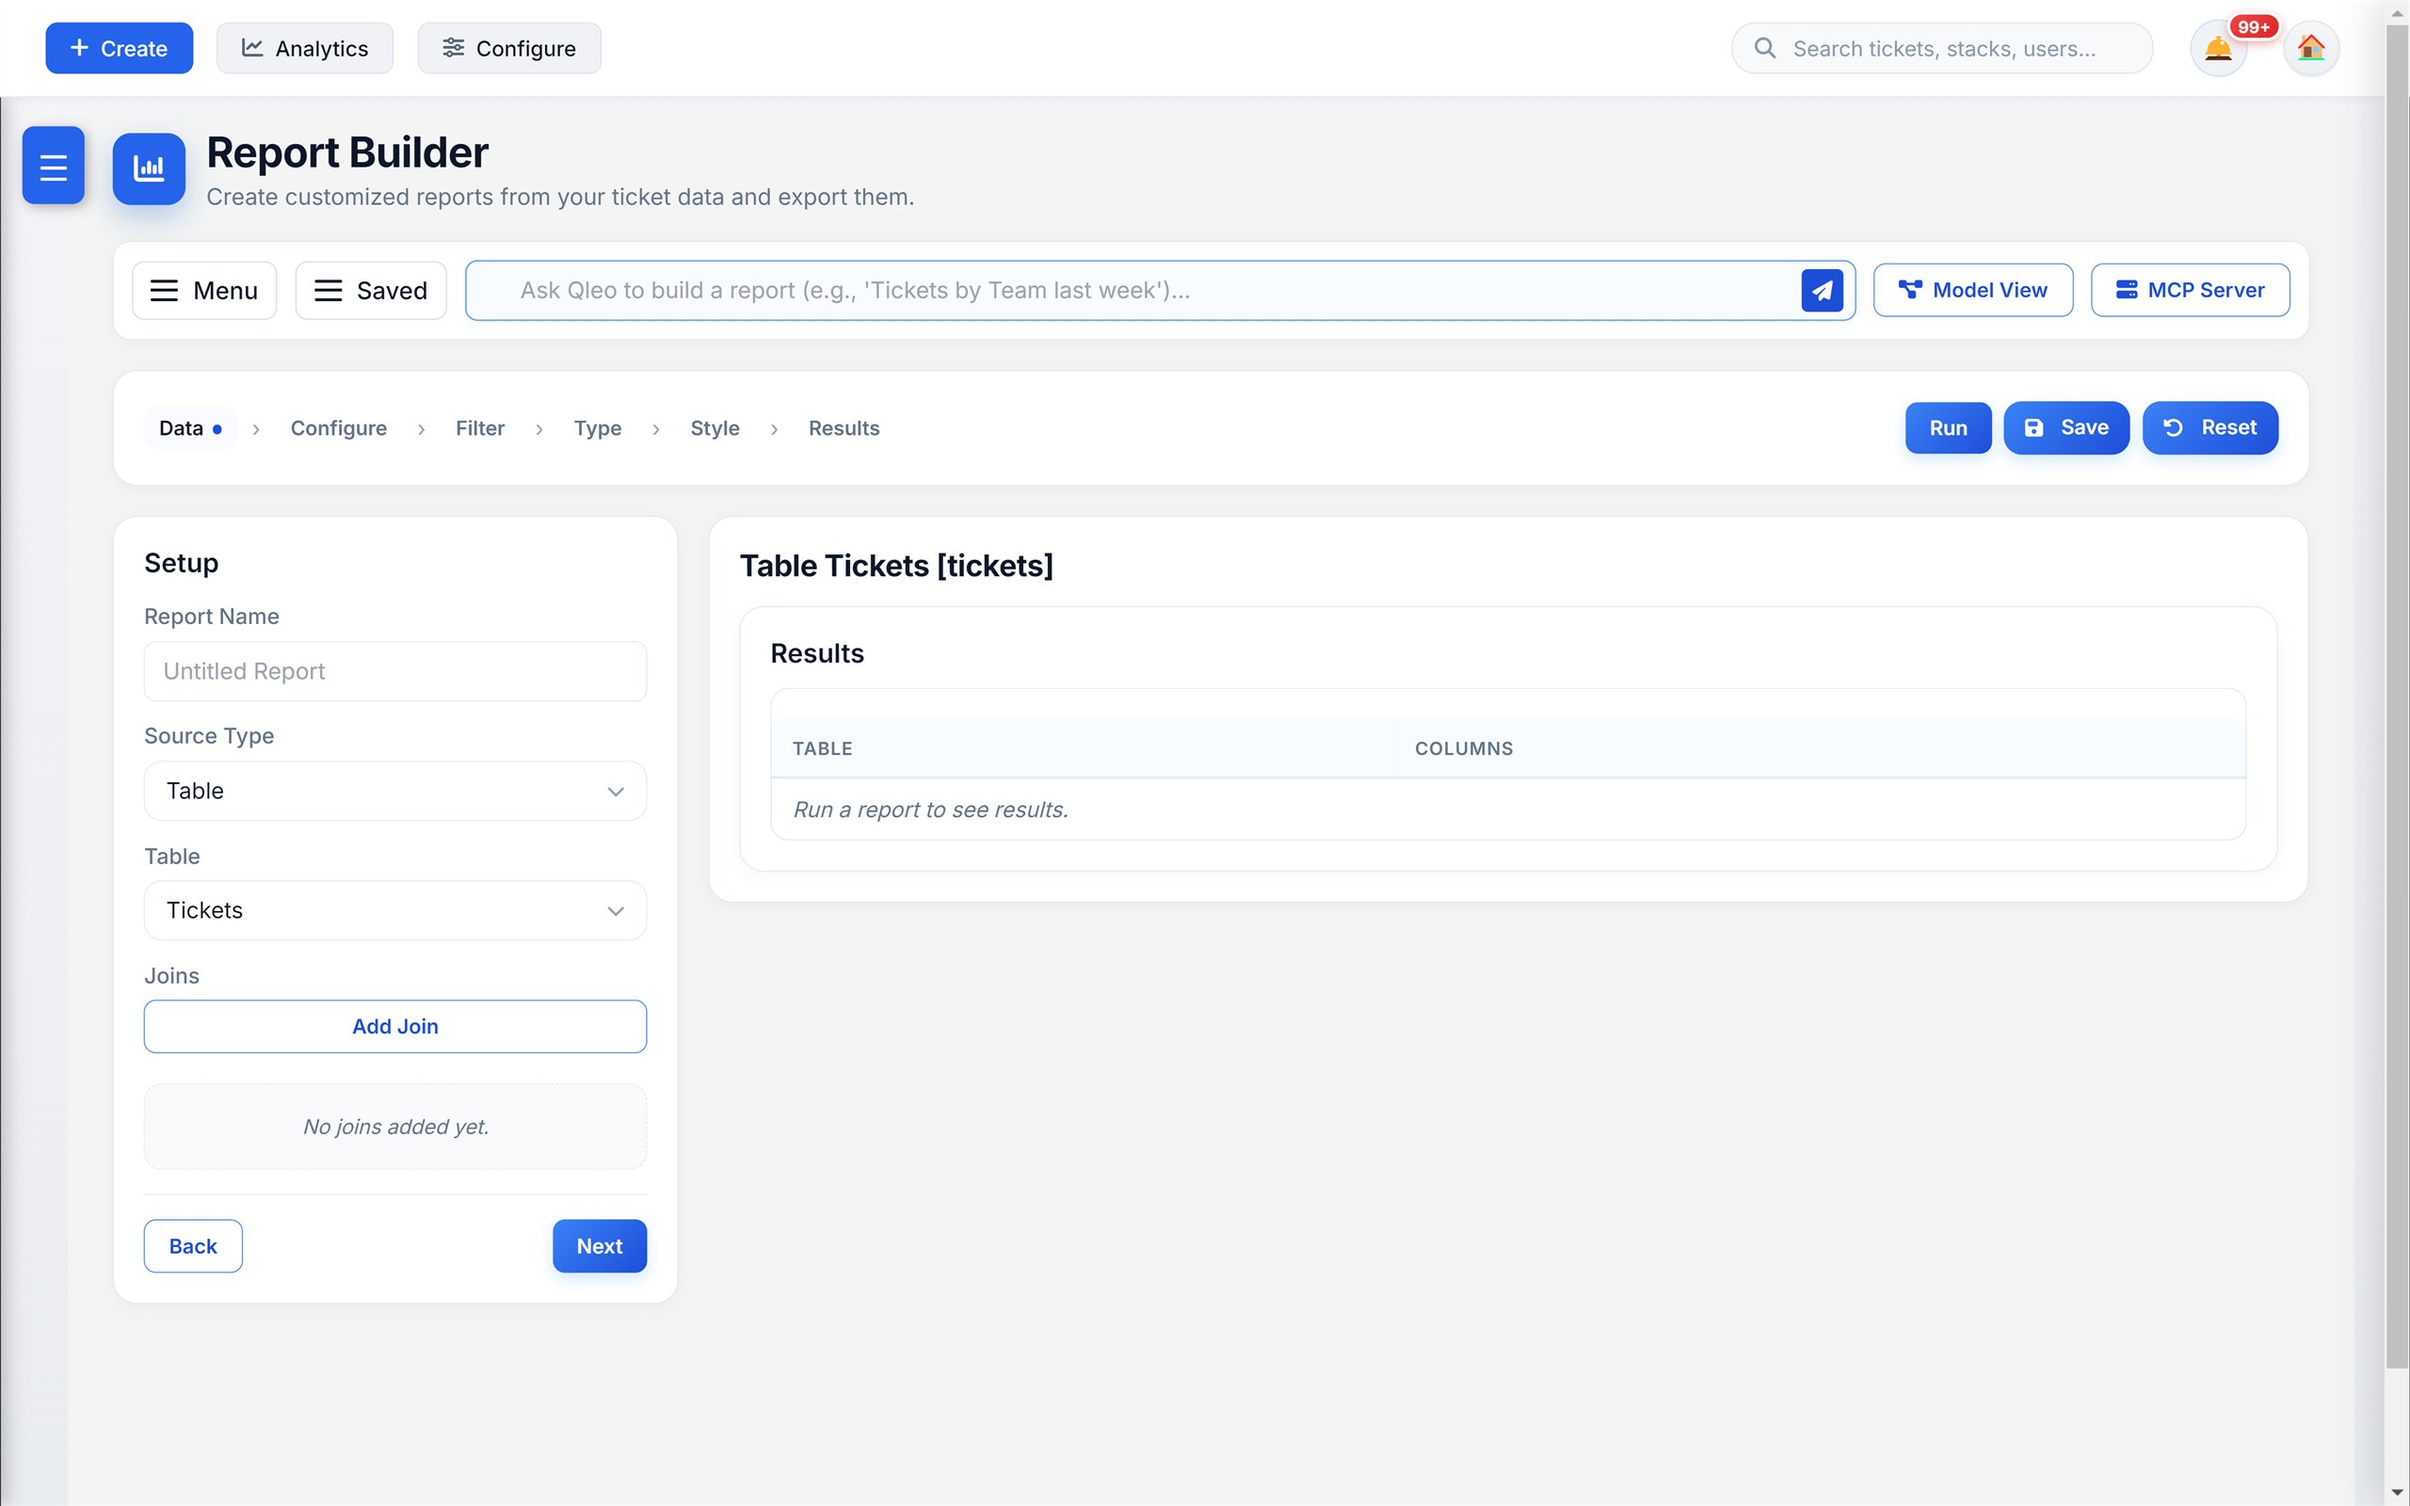
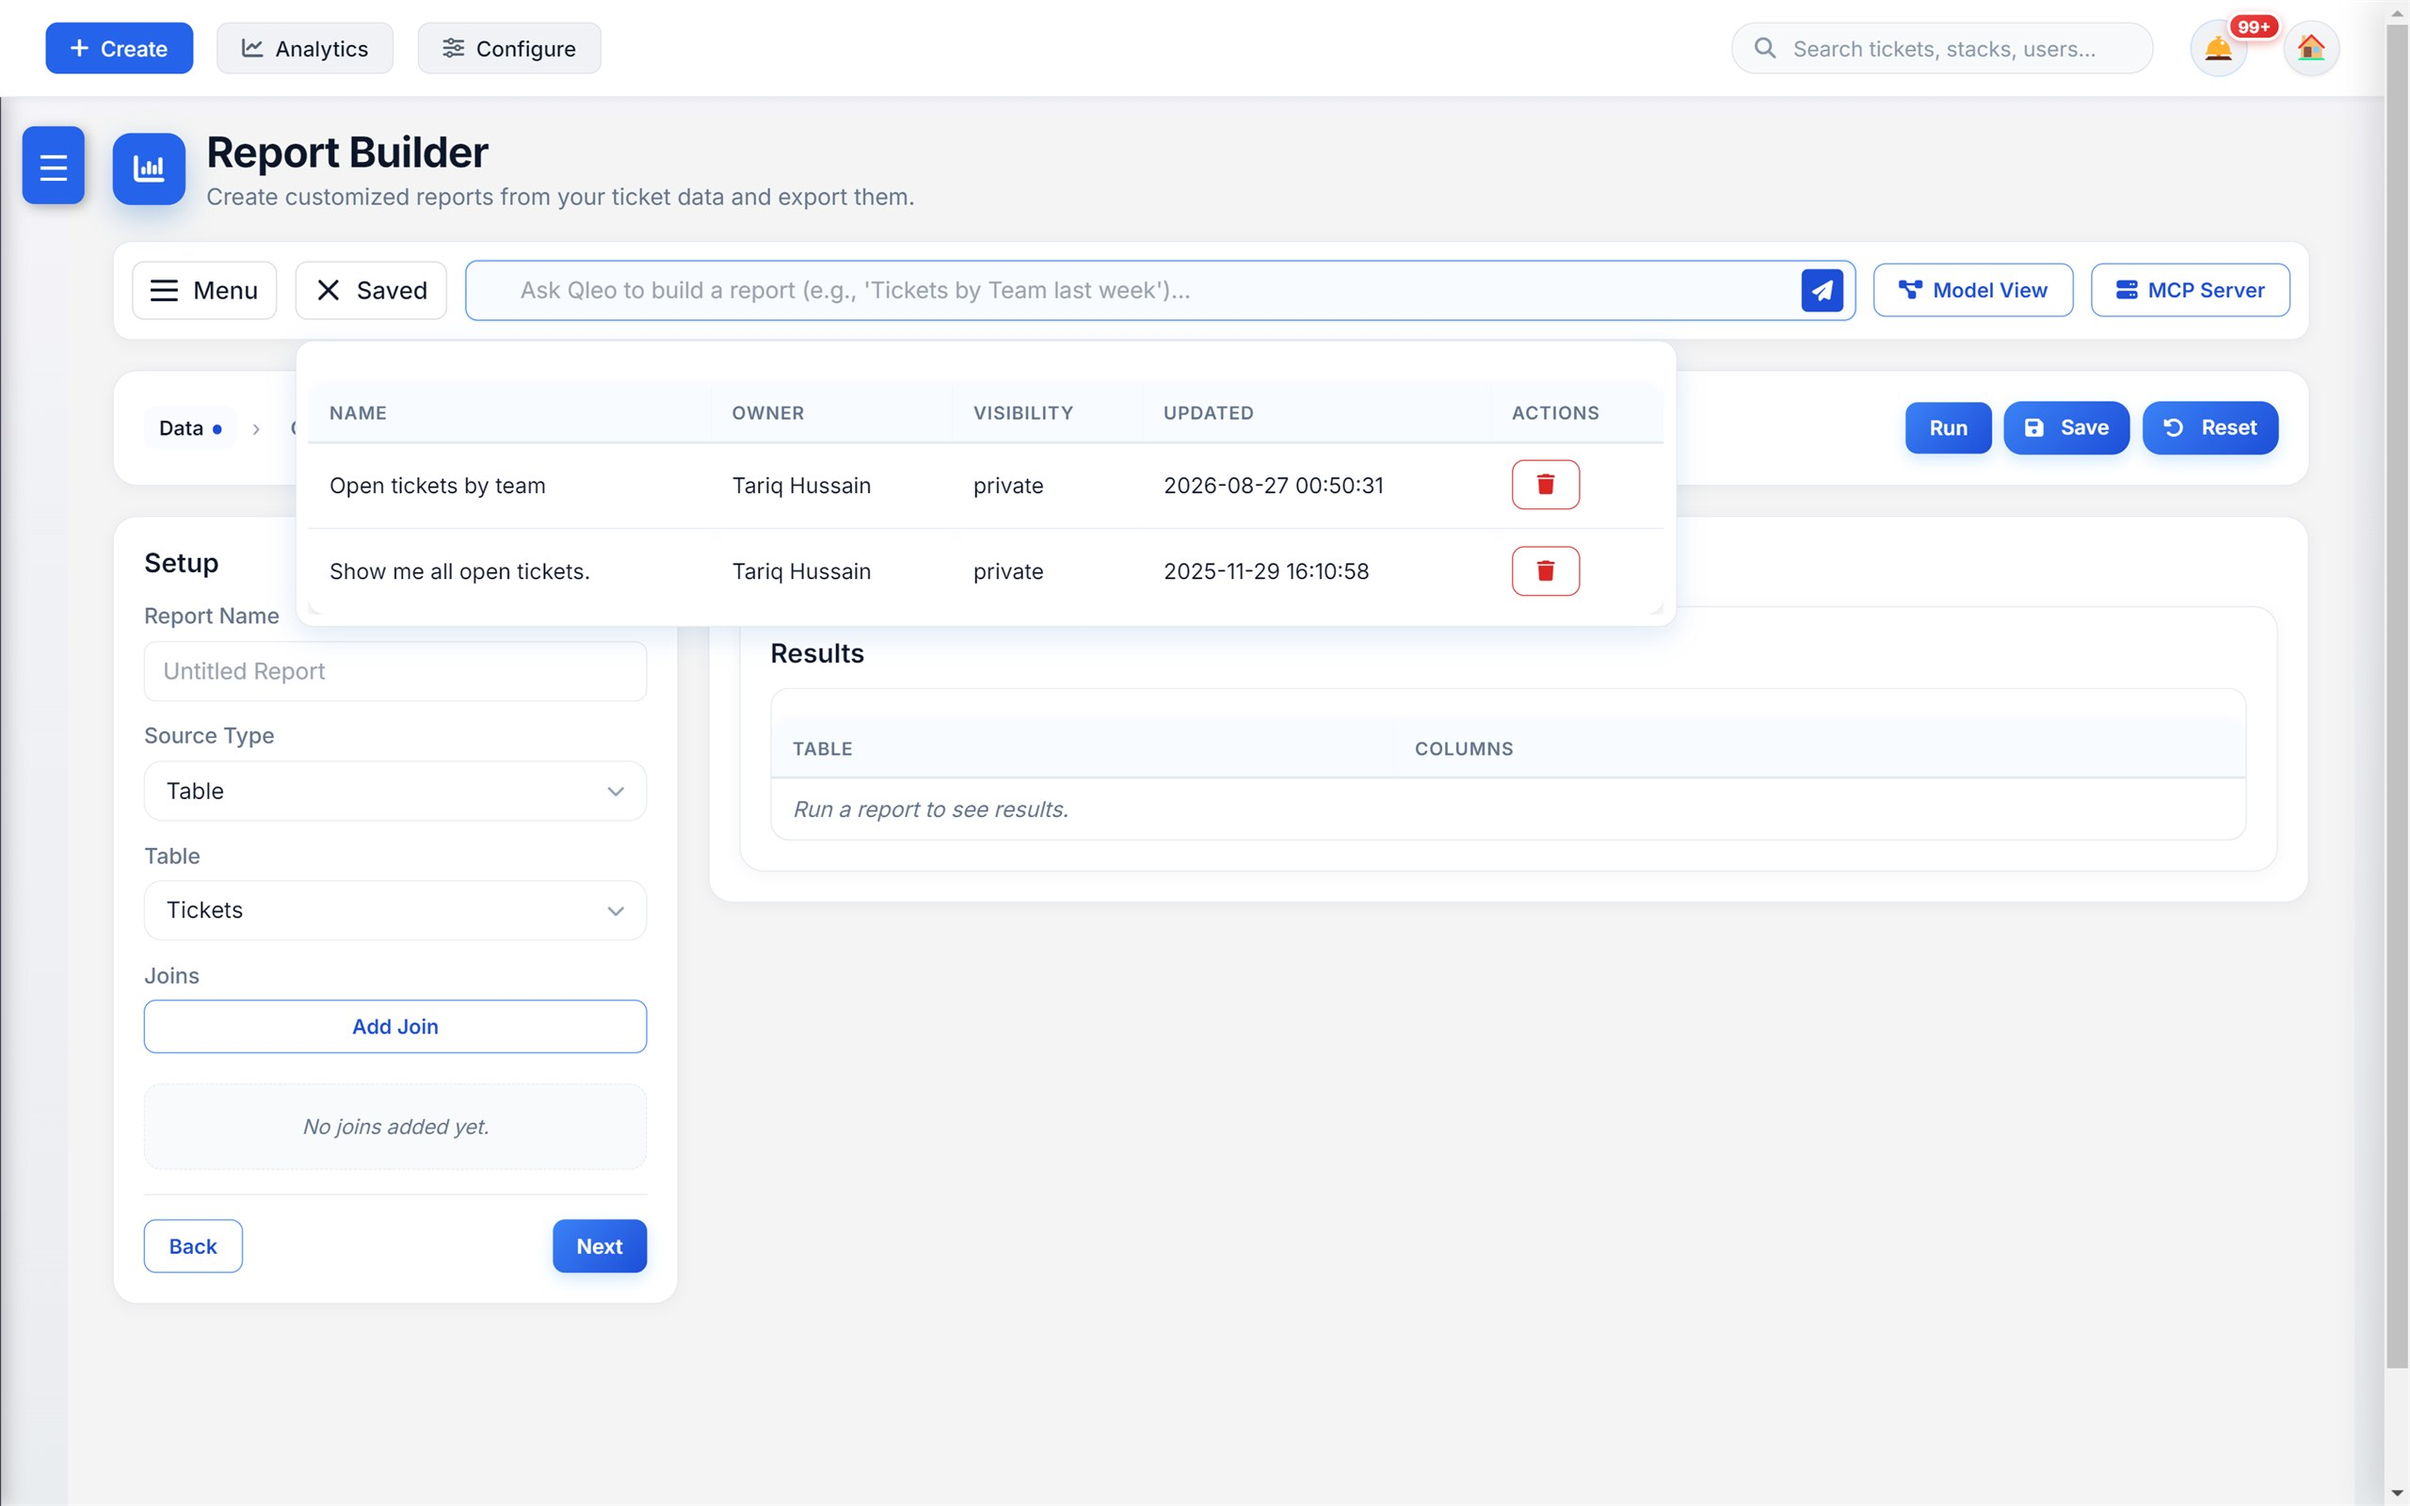
Report Builder shows a real report instead of an empty form
The one screenshot there was the builder on first load: Untitled Report, no
joins, and a results panel still asking to be run. On the feature the write-up
is about, the page was showing nothing happening.

It now carries three, all taken from the two reports that were already saved
rather than from anything built for the photograph. The saved list with its
owners and visibility, Open tickets by team reopened and run against live data,
and that same report as a PDF written by the application itself, with the
filter that produced it, the row count, a totals row, page numbering and the
confidential footer.

Worth recording why the first attempts were discarded: a report with every
column selected puts the full ticket description into a table cell, which makes
both the preview and the PDF unreadable. Using the saved reports was the right
answer and the user had to point it out.

diff --git a/post_deskops.html b/post_deskops.html
@@ -5352,7 +5352,9 @@
 				'<b>Definitions are saved and re-run,</b> and export through the application’s own hand-written PDF writer.'
 			],
 			shots: [
-				{ f: 'reports', c: 'The builder, with the plain-language request bar above the form', d: 'The bar at the top takes a request in plain language; the form below is what actually executes, with source, joins, filters, type and style as separate validated fields. Only the definition the form produces ever reaches the database.' }
+				{ f: 'reports', c: 'Saved definitions, each owned and scoped', d: 'The bar at the top takes a request in plain language; the form below is what actually executes, with source, joins, filters, type and style as separate validated fields. A definition is saved rather than a result set, so the same report can be reopened and re-run against current data, and each one carries its owner and its visibility.' },
+			{ f: 'reportprev', c: 'A saved report reopened and run against live data', d: 'Open tickets by team, reopened from the saved list and run. Three rows in a millisecond, joined across tickets and teams, with the result exportable as CSV or JSON. The preview shows what the definition produced, not a cached copy.' },
+			{ f: 'reportpdf', c: 'The same report as a PDF, written by the application itself', d: 'No print dialog and no PDF library: the document is composed by a hand-written writer inside DeskOps. It carries the report title, the filter that produced it, the row count, who generated it and when, a totals row, page numbering and a confidential footer.' }
 			]
 		}
 		]
